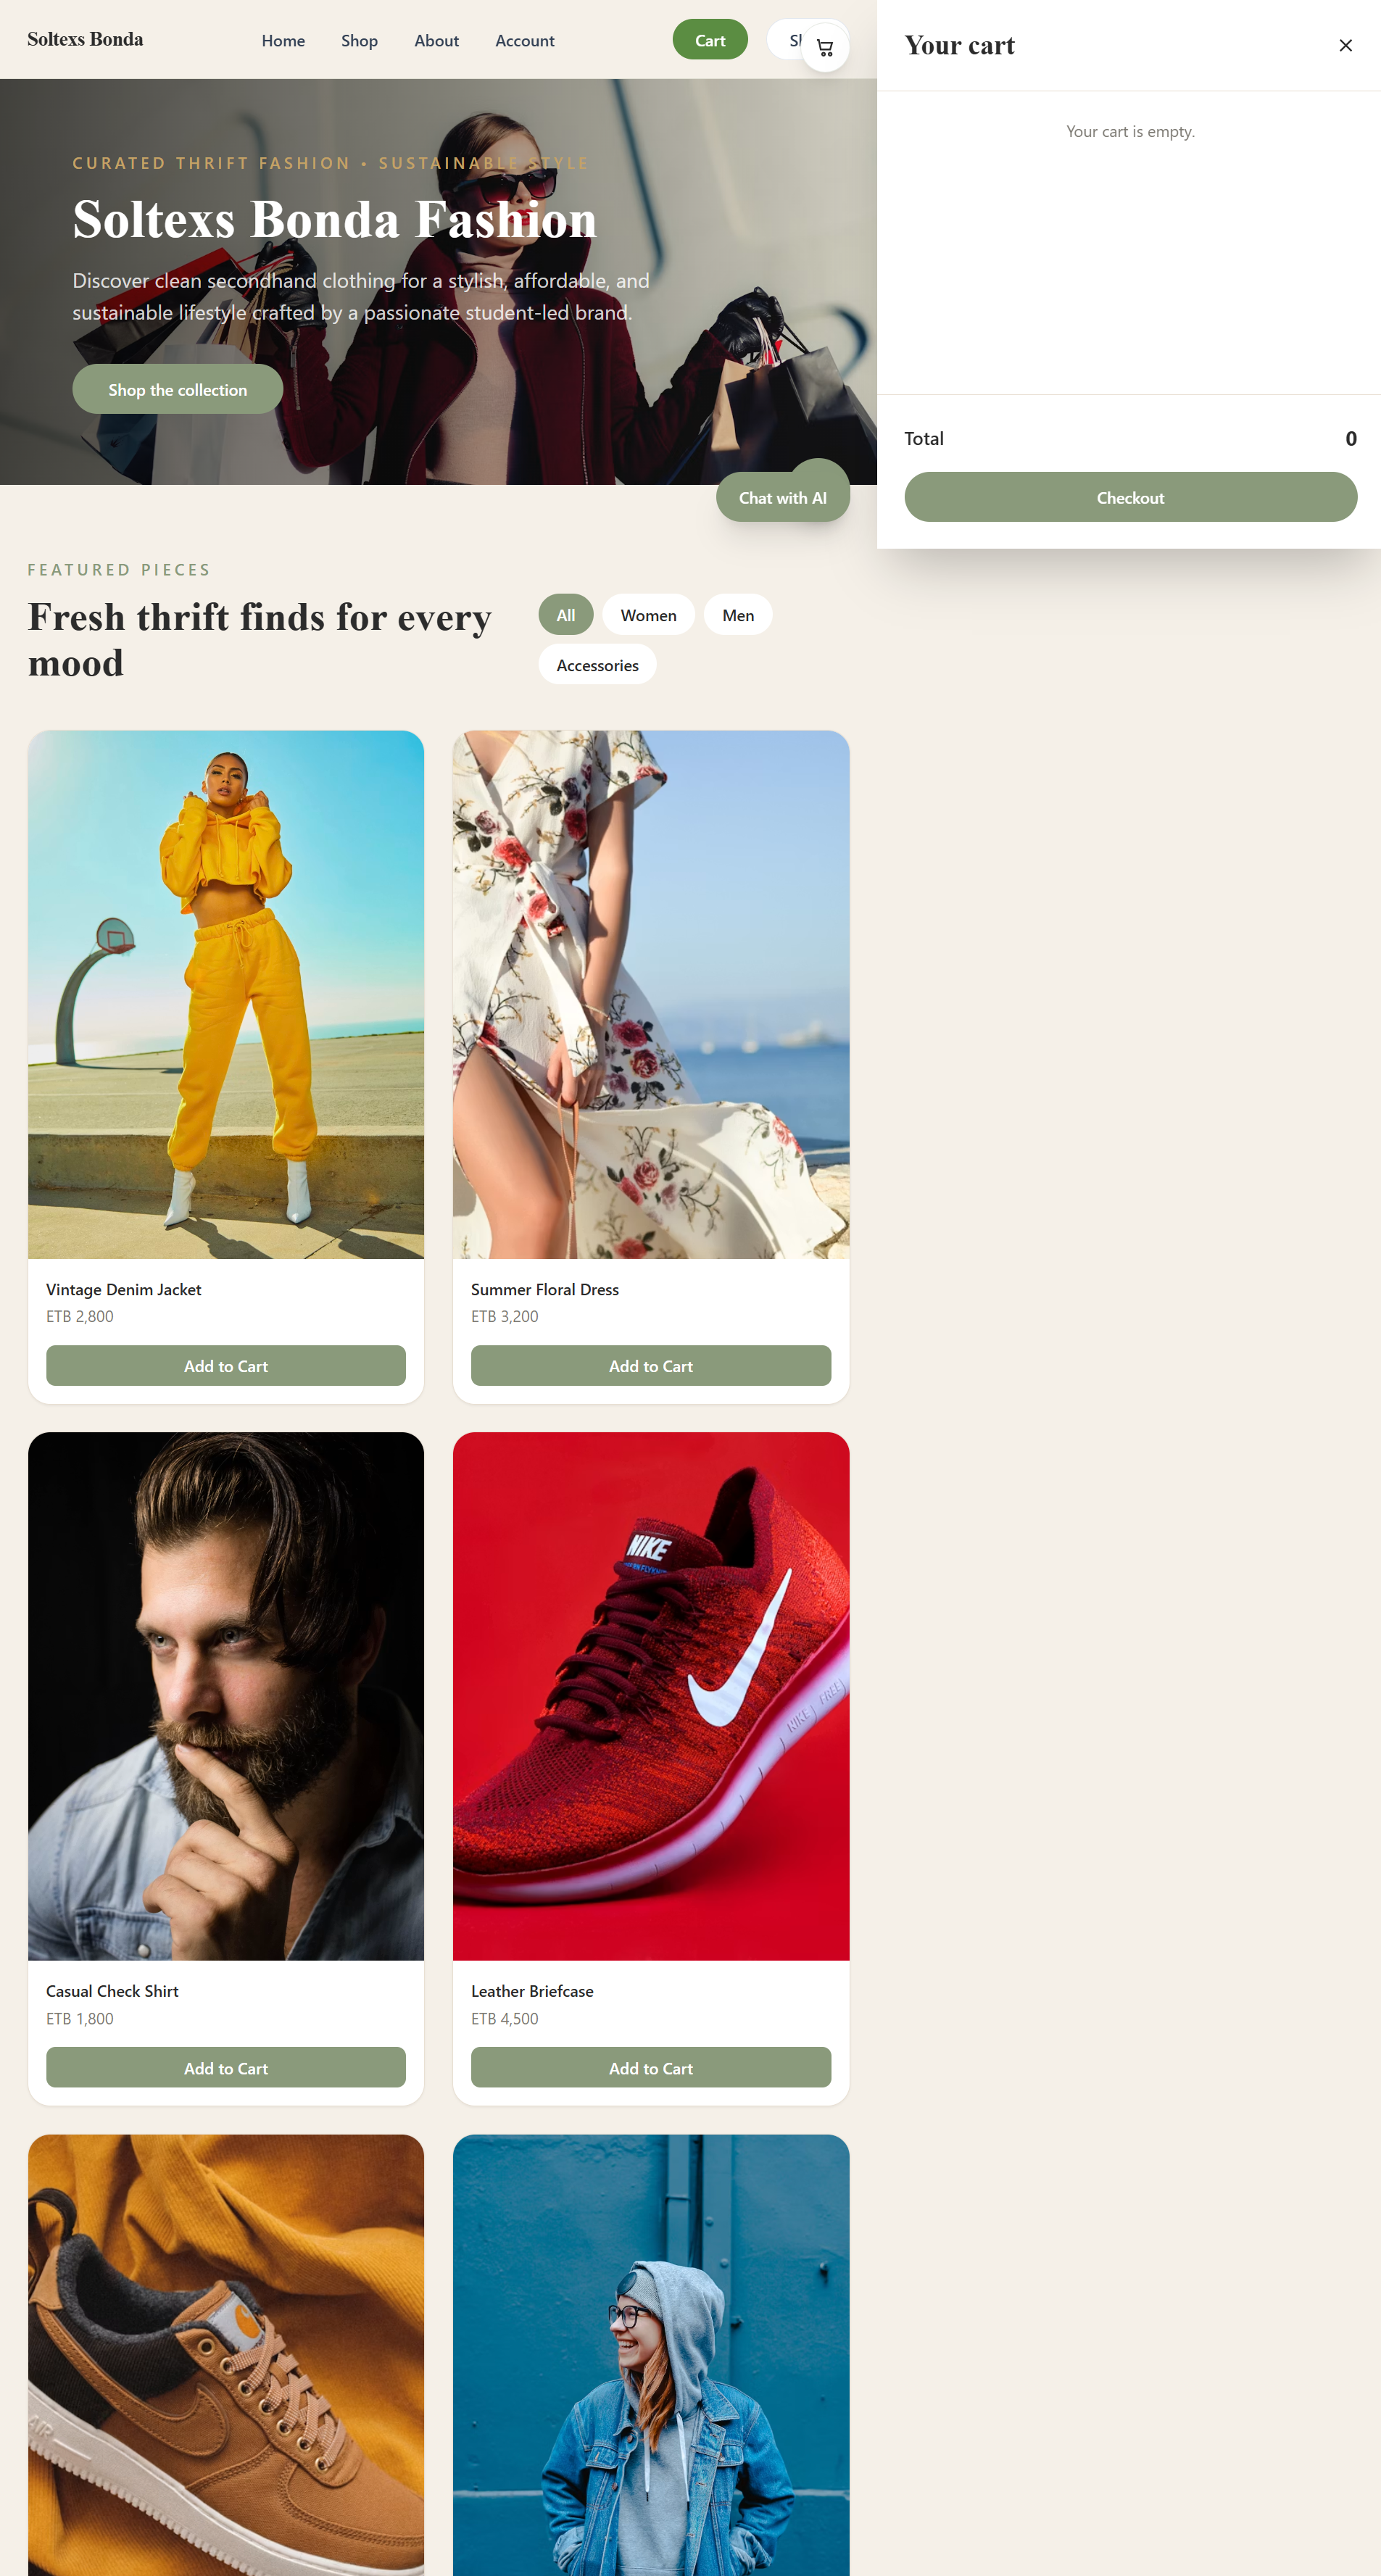
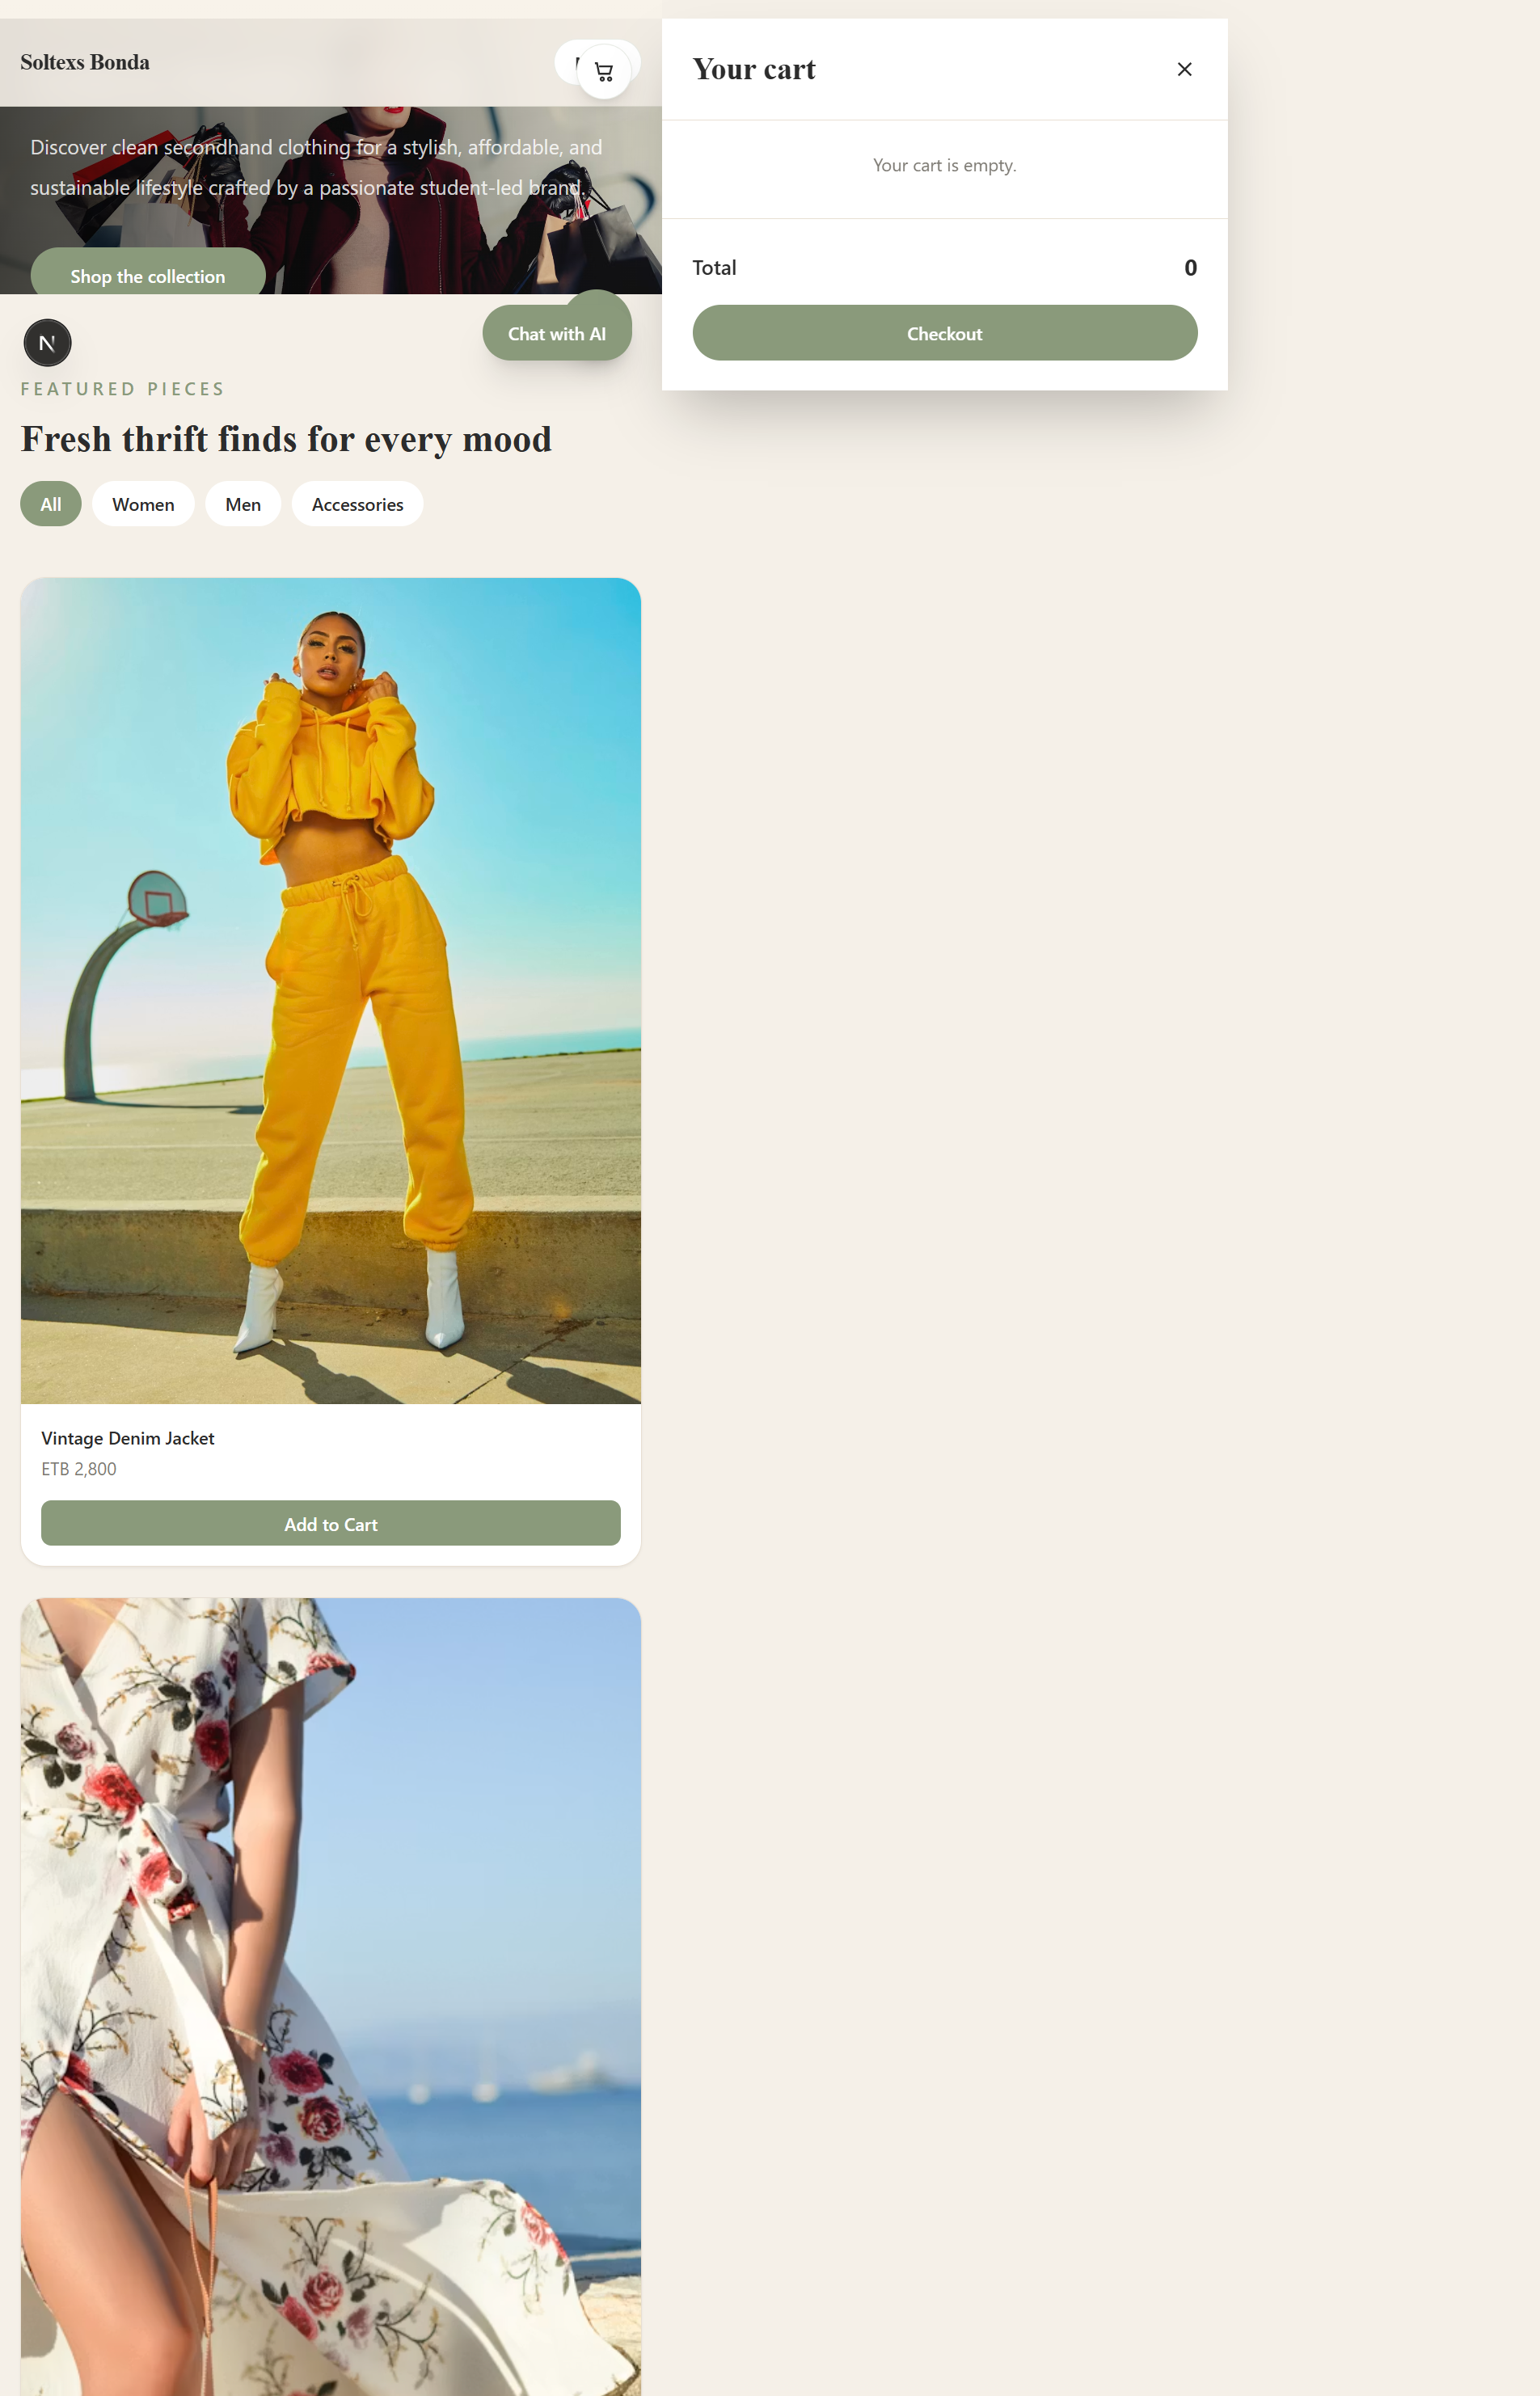
Refactor code structure for improved readability and maintainability

diff --git a/README.md b/README.md
@@ -28,7 +28,7 @@ Soltex-Fashion is a modern Next.js e-commerce storefront built for a curated thr
 
 ![Home page screenshot](./screenshot-home.png)
 
-![Shop page screenshot](./screenshot-shop.png)
+![Shop page screenshot](./screenshot-shop-wrapper.png)
 
 ![Cart page screenshot](./screenshot-cart.png)
 